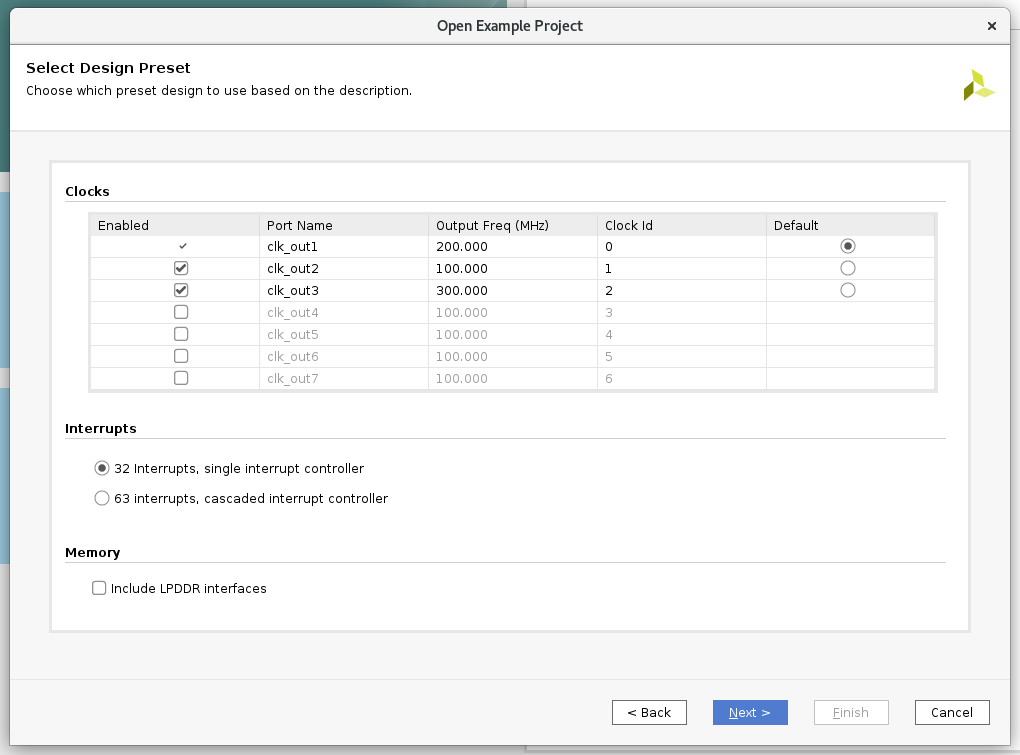
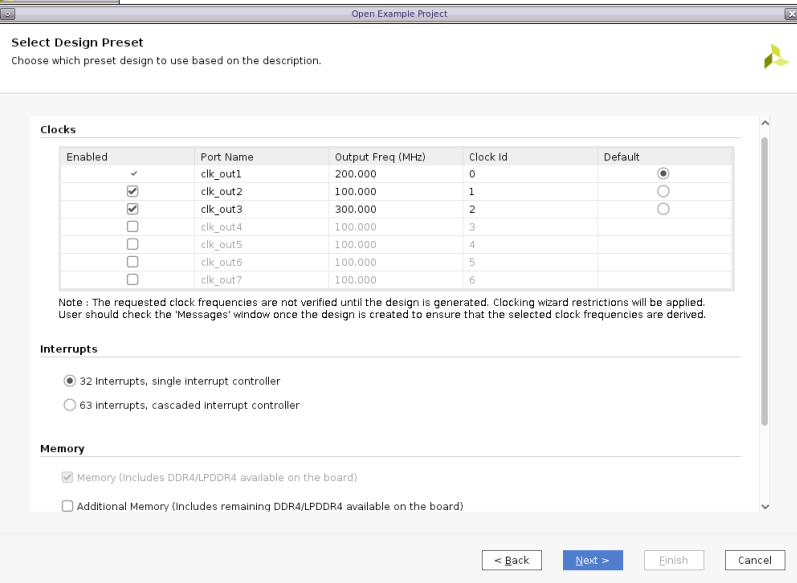
GS/PFM: update Versal Platform quick start to 2022.2

diff --git a/Getting_Started/Vitis_Platform/README.md b/Getting_Started/Vitis_Platform/README.md
@@ -22,12 +22,14 @@
  </tr>
 </table>
 
-***Version: 2022.1***   
+***Version: 2022.2***   
 ***Board: VCK190***
 
 In this module, we will get started with three steps to quickly create a platform and run applications to validate this platform based on VCK190 evaluation board in short. 
 
-This time we will utilize Versal extensible platform from the CED example, using pre-built Linux common image and Createdts command to generate software components. And then create an embedded Versal acceleration platform. At last, leverage the Vector Addition example to validate this platform. Besides if you need to customize the Linux system image you can refer to the [PetaLinux customization page](../../Vitis_Platform_Creation/Feature_Tutorials/02_petalinux_customization/README.md) for reference.
+This time we will utilize Versal extensible platform from the CED example, using pre-built Linux common image and `createdts` command to generate software components. And then create an embedded Versal acceleration platform. At last, leverage the Vector Addition example to validate this platform. 
+
+This is a quick start for Versal platform creation. If you have queries about some steps or settings or want to create a platform for customer's board please refer to [Versal Custom Platform Creation Tutorial](../../Vitis_Platform_Creation/Design_Tutorials/03_Edge_VCK190/). Besides if you need to customize the Linux system image you can refer to the [PetaLinux customization page](../../Vitis_Platform_Creation/Feature_Tutorials/02_petalinux_customization/README.md) for reference.
 
 ## Step 1: Create Vivado Design and Generate XSA
 
@@ -59,7 +61,7 @@ This time we will utilize Versal extensible platform from the CED example, using
 
    - Configure Clocks Settings. You can enable more clocks, update output frequency and define default clock in this view. In this example, we can keep the default settings.
    - Configure Interrupt Settings. You can choose how many interrupt should this platform support. 63 interrupts mode will use two AXI_INTC in cascade mode. In this example, we can keep the default setting.
-   - Configure Memory Settings. By default, the example design will only enable DDR4. If you enable LPDDR4, it will enable both DDR4 and LPDDR4. In this example, we can keep the default setting.
+   - Configure Memory Settings. By default, the example design will enable the on board DDR4 and LPDDR4. If you have additional on board memories, you can enable it. 
    - Click **Next**.
    - Review the new project summary and click **Finish**.
    - After a while, you will see the design example has been generated.
@@ -68,7 +70,7 @@ This time we will utilize Versal extensible platform from the CED example, using
 
    ![Vivado Design Block Diagram](images/vivado_design_diagram.png)
 
-   At this stage, the Vivado block automation has added a Control, Interface & Processing System (shorten with CIPS in the future) block, AXI NOC block, AI Engine, and all supporting logic blocks to the diagram, and applied all board presets for the VCK190
+   At this stage, the Vivado block automation has added a Control, Interface & Processing System (shorten with CIPS in the future) block, AXI NOC block, AI Engine, and all supporting logic blocks to the diagram, and applied all board presets for the VCK190. The instantiated `axi_smc_vip_hier` in purple color is a hierarchy in which smart connects and dummy IPs are packaged together for clear view and better understanding. 
    
 4. Generate Block Diagram
 
@@ -95,34 +97,34 @@ This time we will utilize Versal extensible platform from the CED example, using
    - Input Name: **VCK190_Custom_Platform**, click Next
    - Update file name to **vck190_custom_hw**, click Next.
    - Review the summary. Click **Finish**.
-   - **vck190_custom_hw.xsa** file will be generated in `Vivado project location` directory.
+   - **vck190_custom_hw.xsa** file will be generated in Vivado project location directory.
 
 ## Step 2: Create Vitis Platform
 
 1. Download Versal common image from [Xilinx website download page.](https://www.xilinx.com/support/download.html), place it under your `WorkSpace` directory and extract the common image.
 
    ```bash
-   tar xvf ../xilinx-versal-common-v2022.1.tar.gz .
+   tar xvf ../xilinx-versal-common-v2022.2.tar.gz .
    ```
 
 2. Create the device tree file
+   Device tree describes the hardware components of the system. `createdts` command can generate the device tree file according to the hardware configurations from XSA file. If there are any settings not available in XSA, for example, any driver nodes that don't have corresponding hardware, or user have their own design hardware, User needs to add customization settings in `system-user.dtsi`.
 
-   Utilize XSCT tool to execute one command to generate device tree files:
+   Besides uboot in common image does not have default environment variables. So updating the bootargs manually is needed. A pre-prepared [system-user.dtsi](ref_files/system-user.dtsi) file which adds pre-defined bootargs is under `ref_files` directory. Please copy `system-user.dtsi` to `WorkSpace` directory and follow below steps to generate the DTB file.
 
    ```bash
    cd WorkSpace
    source <Vitis_Install_Directory>/settings64.sh
    xsct 
    ```
-   Then execute ` createdts ` command in XSCT console like below:
+   Then execute `createdts` command in XSCT console like the following:
 
    ```bash
    createdts -hw <full path>/vck190_custom_hw.xsa -out . -zocl \
-   -platform-name mydevice -git-branch xlnx_rel_v2022.1 -board  \
-   versal-vck190-reva-x-ebm-02-reva -compile   
+   -platform-name mydevice -git-branch xlnx_rel_v2022.1 -board versal-vck190-reva-x-ebm-02-reva -dtsi system-user.dtsi -compile   
    ```
 
-   Notice `-hw ` option is your XSA file generated in step1 located in your Vivado Project directory named `vck190_custom_hw.xsa `. Besides below information would show in XSCT console. Please ignore the warning and that means you succeed to get system.dtb file which is located in <mydevice/psv_cortexa72_0/device_tree_domain/bsp/>.
+   Notice `-hw ` option is your XSA file generated in step1 located in your Vivado Project directory named `vck190_custom_hw.xsa `. Besides below information would show in XSCT console. Please ignore the the following warning and that means you succeed to get system.dtb file which is located in <mydevice/psv_cortexa72_0/device_tree_domain/bsp/>.
 
    ```bash
    pl.dtsi:9.21-46.4: Warning (unit_address_vs_reg): /amba_pl@0: node has a unit name, but no reg property
@@ -131,40 +133,21 @@ This time we will utilize Versal extensible platform from the CED example, using
 
    Type `exit` in console to exit XSCT console.
 
-   As uboot image in common image package does not have default environment variables. So we need to update the bootargs manually. We prepare one system-user.dtsi under `ref_files` directory. Just copy it to device tree BSP directory and modify system-top.dts to include it like below.
-
-   ```bash
-   cp system-user.dtsi mydevice/psv_cortexa72_0/device_tree_domain/bsp/
-   echo "#include \"system-user.dtsi\"" >> mydevice/psv_cortexa72_0/device_tree_domain/bsp/system-top.dts
-   ```
-
-   Rebuild the dts file:
-
-   ```bash
-   cd mydevice/psv_cortexa72_0/device_tree_domain/bsp/
-   gcc -I my_dts -E -nostdinc -undef -D__DTS__ -x assembler-with-cpp -o \
-   system.dts system-top.dts  #preprocess the dts file because DTC command can not recognize the #include grammar
-   dtc -I dts -O dtb -o system.dtb system.dts # compile the dts
-   ```
-
-   Then the updated DTB file is located in <mydevice/psv_cortexa72_0/device_tree_domain/bsp/> folder.
-   
-
 3. Create Vitis platform
 
-   - Create two directories under `WorkSpace` directory for FAT32 partition and boot components. Then prepare  images like the following:
+   - Create two directories under `WorkSpace` directory for FAT32 partition and boot components. Then prepare images like the following:
 
       ```bash
       cd WorkSpace
       mkdir sd_dir
       mkdir boot
-      cp xilinx-versal-common-v2022.1/boot.scr sd_dir/
-      cp xilinx-versal-common-v2022.1/bl31.elf boot/
-      cp xilinx-versal-common-v2022.1/u-boot.elf boot/
+      cp xilinx-versal-common-v2022.2/boot.scr sd_dir/
+      cp xilinx-versal-common-v2022.2/bl31.elf boot/
+      cp xilinx-versal-common-v2022.2/u-boot.elf boot/
       cp mydevice/psv_cortexa72_0/device_tree_domain/bsp/system.dtb boot/
       ```
 
-   - install SDK tool by typing `sh xilinx-versal-common-v2022.1/sdk.sh -d xilinx-versal-common-v2022.1/ -y` in console. Option of -d is to specify the directory where to install. Option of -y means confirmation. So it will be installed in `xilinx-versal-common-v2022.1/` folder.
+   - install SDK tool by typing `sh xilinx-versal-common-v2022.2/sdk.sh -d xilinx-versal-common-v2022.2/ -y` in console. Option of -d is to specify the directory where to install. Option of -y means confirmation. So it will be installed in `xilinx-versal-common-v2022.2/` folder.
    - Run Vitis by typing `vitis` in the console.
    - In the Vitis IDE, select **File > New > Platform Project** to create a platform project.
    - Enter the project name. For this example, type `vck190_custom`, click **Next**.
@@ -201,9 +184,9 @@ This time we will utilize Versal extensible platform from the CED example, using
    
      ![missing image](./images/vitis_create_vadd.png)
 
-   - Input **Sysroot** path <xilinx-versal-common-v2022.1/sysroots/cortexa72-cortexa53-xilinx-linux>
-   - Input **RootFS** path <xilinx-versal-common-v2022.1/rootfs.ext4>
-   - Input **Kernel Image** path <xilinx-versal-common-v2022.1/Image>
+   - Input **Sysroot** path <xilinx-versal-common-v2022.2/sysroots/cortexa72-cortexa53-xilinx-linux>
+   - Input **RootFS** path <xilinx-versal-common-v2022.2/rootfs.ext4>
+   - Input **Kernel Image** path <xilinx-versal-common-v2022.2/Image>
    -  Click **Next**. 
    - Select template **Vector Addition**. Click **Finish**.
    - Select **vadd_system** project
@@ -329,8 +312,16 @@ To use these scripts, please download Versal common image from [Xilinx website d
    ```bash
    # cd to the ref_files directory, e.g.
    cd ref_files
-   make all COMMON_IMAGE_VERSAL=<path/to/common_image/>
+   make all COMMON_IMAGE_VERSAL=<path/to/common_image/>  #Specify the path of the common image
    ```
+   This command is to generate platform with pre-built software components and do sw emulation by running vadd application to test this platform
+
+   ```
+   make sd_card COMMON_IMAGE_VERSAL=<path/to/common_image/>  #Specify the path of the common image
+   ```
+   This command is to generate platform with pre-built software components and do hw test on board by running vadd application to test this platform
+
+
 
 2. To clean the generated files, please run
 
